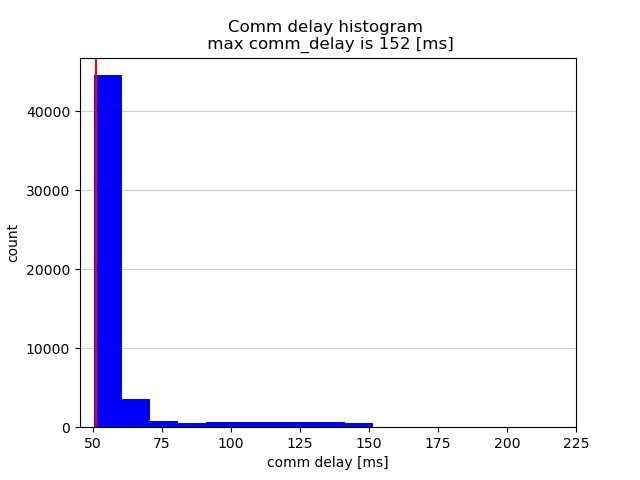
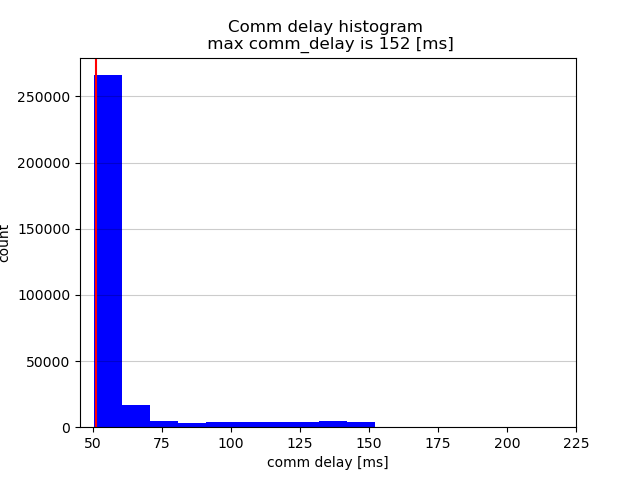
minor

diff --git a/mader/src/mader.cpp b/mader/src/mader.cpp
@@ -171,10 +171,10 @@ void Mader::dynTraj2dynTrajCompiled(const mt::dynTraj& traj, mt::dynTrajCompiled
 }
 // Note that we need to compile the trajectories inside mader.cpp because t_ is in mader.hpp
 
-void Mader::updateTrajObstacles(mt::dynTraj traj, const mt::PieceWisePol& pwp_now, const bool& is_in_DC,
-                                bool& delay_check_result, const double& headsup_time)
+bool Mader::updateTrajObstacles(mt::dynTraj traj, const mt::PieceWisePol& pwp_now, const bool& is_in_DC,
+                                const double& headsup_time)
 {
-  delay_check_result = true;
+  bool delay_check_result = true;
 
   MyTimer tmp_t(true);
 
@@ -182,6 +182,8 @@ void Mader::updateTrajObstacles(mt::dynTraj traj, const mt::PieceWisePol& pwp_no
   {
     have_received_trajectories_while_checking_ = true;
   }
+
+  mtx_trajs_.lock(); // this should be above is_in_DC block, otherwise gives a pointer-related error
 
   // std::vector<mt::dynTrajCompiled>::iterator obs_ptr =
   //     std::find_if(trajs_.begin(), trajs_.end(),
@@ -199,8 +201,7 @@ void Mader::updateTrajObstacles(mt::dynTraj traj, const mt::PieceWisePol& pwp_no
     {
       if (!traj_compiled.is_committed)
       {
-        // if (headsup_time < traj_compiled.time_created)
-        if (traj_compiled.time_created - headsup_time > 0.001)  // tol:1ms
+        if (headsup_time < traj_compiled.time_created)
         {
           // Do nothing. They will change their traj.
         }
@@ -209,7 +210,6 @@ void Mader::updateTrajObstacles(mt::dynTraj traj, const mt::PieceWisePol& pwp_no
         {
           ROS_ERROR_STREAM("In delay check traj_compiled collides with " << traj_compiled.id);
           delay_check_result = false;  // will have to redo the optimization
-          have_received_trajectories_while_checking_ = false;
         }
         else if (traj_compiled.time_created == headsup_time &&
                  trajsAndPwpAreInCollision(traj_compiled, pwp_now, pwp_now.times.front(),
@@ -221,17 +221,14 @@ void Mader::updateTrajObstacles(mt::dynTraj traj, const mt::PieceWisePol& pwp_no
           if (center_obs[0] > state_.pos[0])
           {
             delay_check_result = false;
-            have_received_trajectories_while_checking_ = false;
           }
           else if (center_obs[1] > state_.pos[1])
           {
             delay_check_result = false;
-            have_received_trajectories_while_checking_ = false;
           }
           else if (center_obs[2] > state_.pos[2])
           {
             delay_check_result = false;
-            have_received_trajectories_while_checking_ = false;
           }
           // center_obs[0] == state_.pos[0] &&  center_obs[1] == state_.pos[1] &&  center_obs[2] == state_.pos[2] won't
           // happen bc it's the same position and collision
@@ -241,12 +238,9 @@ void Mader::updateTrajObstacles(mt::dynTraj traj, const mt::PieceWisePol& pwp_no
       {
         ROS_ERROR_STREAM("In delay check traj_compiled collides with " << traj_compiled.id);
         delay_check_result = false;  // will have to redo the optimization
-        have_received_trajectories_while_checking_ = false;
       }
     }
   }
-
-  mtx_trajs_.lock();
 
   // if (exists_in_local_map && traj.is_committed)
   if (traj.is_committed)
@@ -319,6 +313,7 @@ void Mader::updateTrajObstacles(mt::dynTraj traj, const mt::PieceWisePol& pwp_no
   mtx_trajs_.unlock();
 
   have_received_trajectories_while_checking_ = false;
+  return delay_check_result;
   // std::cout << bold << blue << "updateTrajObstacles took " << tmp_t << reset << std::endl;
 }
 
@@ -1594,12 +1589,12 @@ bool Mader::replan_with_delaycheck(mt::Edges& edges_obstacles_out, std::vector<m
 
   if (is_safe_after_opt == false)
   {
-    int states_last_replan = ceil(replanCB_t.ElapsedMs() / (par_.dc * 1000) +
-                                  par_.delay_check * par_.comm_delay_param / par_.dc);  // Number of states that
-                                                                                        // would have been needed for
-                                                                                        // the last replan
-    deltaT_ = std::max(par_.factor_alpha * states_last_replan, 1.0);
-    deltaT_ = std::min(1.0 * deltaT_, 2.0 / par_.dc);
+    // int states_last_replan = ceil(replanCB_t.ElapsedMs() / (par_.dc * 1000) +
+    //                               par_.delay_check * par_.comm_delay_param / par_.dc);  // Number of states that
+    //                                                                                     // would have been needed for
+    //                                                                                     // the last replan
+    // deltaT_ = std::max(par_.factor_alpha * states_last_replan, 1.0);
+    // deltaT_ = std::min(1.0 * deltaT_, 2.0 / par_.dc);
     ROS_ERROR_STREAM("safetyCheckAfterOpt is not satisfied, returning");
     return false;
   }

diff --git a/mader/src/mader_ros.cpp b/mader/src/mader_ros.cpp
@@ -412,7 +412,7 @@ void MaderRos::allTrajsTimerCB(const ros::TimerEvent& e)
 
     if (is_delaycheck_)
     {
-      mader_ptr_->updateTrajObstacles(alltrajs_[0], pwp_now_, is_in_DC_, delay_check_result_, headsup_time_);
+      delay_check_result_ = mader_ptr_->updateTrajObstacles(alltrajs_[0], pwp_now_, is_in_DC_, headsup_time_);
     }
     else
     {
@@ -427,7 +427,6 @@ void MaderRos::allTrajsTimerCB(const ros::TimerEvent& e)
 
     // mtx_alltrajs_.unlock();
     // mtx_alltrajsTimers_.unlock();
-
 
     // supposedly_simulated_time_delay should be simulated_comm_delay_
     if (supposedly_simulated_comm_delay > delay_check_ && is_delaycheck_)
@@ -583,6 +582,9 @@ void MaderRos::replanCB(const ros::TimerEvent& e)
 
       if (replanned)
       {
+        MyTimer delay_check_t(true);
+        is_in_DC_ = true;
+
         // let others know my new trajectory
         publishOwnTraj(pwp_now_, false, headsup_time_);
 
@@ -601,9 +603,7 @@ void MaderRos::replanCB(const ros::TimerEvent& e)
 
         // delay check *******************************************************
         // start
-        MyTimer delay_check_t(true);
-        is_in_DC_ = true;
-        delay_check_result_ = mader_ptr_->everyTrajCheck(pwp_now_);
+        // delay_check_result_ = mader_ptr_->everyTrajCheck(pwp_now_);
         while (delay_check_t.ElapsedMs() / 1000.0 < delay_check_)
         {
           // wait while trajCB() is checking new trajs

diff --git a/mader/other/sim/comm_delay_histogram_percentile.py b/mader/other/sim/comm_delay_histogram_percentile.py
@@ -39,9 +39,9 @@ if __name__ == '__main__':
     num_of_agents = 10
 
     if is_oldmader:
-        dc_list = [0, 200, 170, 120, 100, 78, 63, 55, 51] #dc_list[0] will be used for old mader (which doesn't need delay check) so enter some value (default 0)
+        dc_list = [0, 160, 120, 100, 78, 63, 55, 51] #dc_list[0] will be used for old mader (which doesn't need delay check) so enter some value (default 0)
     else:
-        dc_list = [200, 170, 120, 100, 78, 63, 55, 51] #dc_list[0] will be used for old mader (which doesn't need delay check) so enter some value (default 0)
+        dc_list = [160, 120, 100, 78, 63, 55, 51] #dc_list[0] will be used for old mader (which doesn't need delay check) so enter some value (default 0)
 
     for dc in dc_list:
 
@@ -64,7 +64,7 @@ if __name__ == '__main__':
         for bag in rosbag_list:
             rosbag.append(bag)
 
-        print(rosbag)
+        # print(rosbag)
 
         for i in range(len(rosbag)):
 

diff --git a/mader/other/sim/collision_check.py b/mader/other/sim/collision_check.py
@@ -31,9 +31,9 @@ if __name__ == '__main__':
     is_oldmader = True # change here 
     
     if is_oldmader:
-        dc_list = [0, 200, 170, 120, 100, 78, 63, 55, 51] #dc_list[0] will be used for old mader (which doesn't need delay check) so enter some value (default 0)
+        dc_list = [0, 160, 120, 100, 78, 63, 55, 51] #dc_list[0] will be used for old mader (which doesn't need delay check) so enter some value (default 0)
     else:
-        dc_list = [200, 170, 120, 100, 78, 63, 55, 51] #dc_list[0] will be used for old mader (which doesn't need delay check) so enter some value (default 0)
+        dc_list = [160, 120, 100, 78, 63, 55, 51] #dc_list[0] will be used for old mader (which doesn't need delay check) so enter some value (default 0)
 
     for dc in dc_list:
 

diff --git a/mader/include/mader.hpp b/mader/include/mader.hpp
@@ -65,8 +65,8 @@ public:
   void resetInitialization();
 
   bool IsTranslating();
-  void updateTrajObstacles(mt::dynTraj traj, const mt::PieceWisePol& pwp_now, const bool& is_in_DC,
-                           bool& delay_check_result, const double& headsup_time);
+  bool updateTrajObstacles(mt::dynTraj traj, const mt::PieceWisePol& pwp_now, const bool& is_in_DC,
+                           const double& headsup_time);
   void updateTrajObstacles(mt::dynTraj traj);
 
   Eigen::Vector2d RotationMatrix(Eigen::Vector2d& vec, const double& angle);

diff --git a/mader/scripts/run_many_sims_multi_agent.py b/mader/scripts/run_many_sims_multi_agent.py
@@ -38,9 +38,9 @@ if __name__ == '__main__':
 
     # parameters
     is_oldmader=True
-    num_of_sims=10
+    num_of_sims=60
     num_of_agents=10
-    how_long_to_wait = 50 #[s]
+    how_long_to_wait = 40 #[s]
     if is_oldmader:
         dc_list = [0, 160, 120, 100, 78, 63, 55, 51] #dc_list[0] will be used for old mader (which doesn't need delay check) so enter some value (default 0)
     else:
